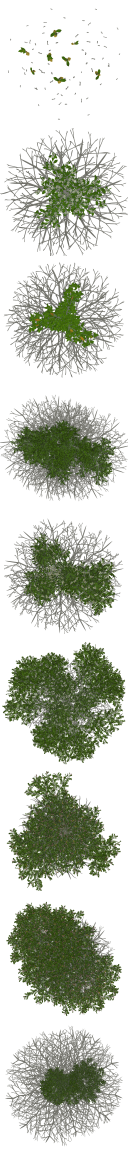
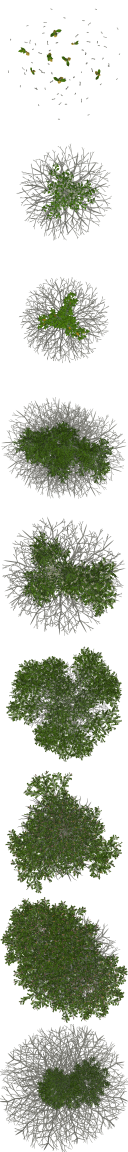
remade textures of every tree

diff --git a/objects.py b/objects.py
@@ -8,7 +8,7 @@ textures = [
             "glass",
             #objects
             "grass", "treelog", "treestump", "treetrunk", "basil", "mushrooms",
-            "fern", "bush", "tarragon", "silkyoak", "bottlebrushtree", "sheoaktree", "cactus", "greencactus",
+            "fern", "bush", "tarragon", "silkyoak", "weepingbottlebrush", "norfolkislandpine", "cactus", "greencactus",
             "flytrap", "birchtreelog", "birchtreetrunk", "birchtreestump", "lillypad", "talldrygrass", "candle", "greymangrove", "silverwattle",
             ]
 
@@ -36,7 +36,7 @@ biome_map = ((3, 2, 2, 1, 1, 0),# cold
 
 OBJ = {
              "grass": {
-                 "substrate": ("dirt", "weeds", "roughseedgrass", "stones", "lushundergrowth", "silkyoakdirt", "bottlebrushdirt", "sheoakdirt", "lawn", "sand", "freshwater"),
+                 "substrate": ("dirt", "weeds", "roughseedgrass", "stones", "lushundergrowth", "silkyoakdirt", "bottlebrushdirt", "sheoakdirt", "wattledirt", "lawn", "sand", "freshwater"),
                  "moisture": (5, 100),
                  "rootsize": "shallow",
                  "nutreants": (10, 70),
@@ -62,7 +62,7 @@ OBJ = {
                  "height": 0.05
              },
              "mushrooms": {
-                 "substrate": ("dirt", "weeds", "lushundergrowth", "silkyoakdirt", "bottlebrushdirt", "sheoakdirt", "lawn"),
+                 "substrate": ("dirt", "weeds", "lushundergrowth", "silkyoakdirt", "bottlebrushdirt", "sheoakdirt", "wattledirt", "lawn"),
                  "moisture": (40, 100),
                  "rootsize": "shallow",
                  "nutreants": (0, 50),
@@ -128,7 +128,7 @@ OBJ = {
                  "size": 8,
                  "height": lambda x,y: 0.4+sin(x+y*y)/20
              },
-             "bottlebrushtree": {
+             "weepingbottlebrush": {
                  "substrate": ("bottlebrushdirt", ),
                  "moisture": (20, 75),
                  "rootsize": "deep",
@@ -142,7 +142,7 @@ OBJ = {
                  "size": 8,
                  "height": lambda x,y: 0.4+sin(x+y*y)/20
              },
-             "sheoaktree": {
+             "norfolkislandpine": {
                  "substrate": ("sheoakdirt", ),
                  "moisture": (20, 75),
                  "rootsize": "deep",
@@ -152,9 +152,9 @@ OBJ = {
                  "lightlevel": "any",
                  "creates": "sheoakdirt",
                  "flags": {"plant", "native", "flip", "solid"},
-                 "model": "tree",
+                 "model": "doubletree",
                  "size": 8,
-                 "height": lambda x,y: 0.4+sin(x+y*y)/20
+                 "height": lambda x,y: 0.5+sin(x+y*y)/20
              },
              "greymangrove": {
                  "substrate": ( "mangrovedirt", "dirt", "sand", "freshwater", "water", "roughseedgrass" ),
@@ -170,7 +170,7 @@ OBJ = {
                  "height": lambda x,y: 0.1+sin(x+y*y)/20
              },
              "silverwattle": {
-                 "substrate": ( "wattledirt", ),
+                 "substrate": ( "wattledirt", "roughseedgrass" ),
                  "moisture": (20, 80),
                  "rootsize": "deep",
                  "temperiture": (15, 80),
@@ -185,7 +185,6 @@ OBJ = {
                  "substrate": ("roughseedgrass", "sand"),
                  "moisture": (20, 60),
                  "rootsize": "moderate",
-                 "nutreants": (5, 70),
                  "temperiture": (20, 50),
                  "salinity": (0, 100),
                  "lightlevel": "high",

diff --git a/Nitrogen.py b/Nitrogen.py
@@ -228,8 +228,8 @@ def render_text(text):
 render_text(text)
 
 #hotbar = [["treestump", 1, 1], ["treestump", 1, 1], ["birchtreestump", 1, 1], ["treestump", 1, 1], ["wall", 1, 1000], ["tiles", 1, 1000], ["dirt", 0, 1], ["lushundergrowth", 0, 1], ["bottlebrushdirt", 0, 1]]
-#hotbar[0] = ["glass", 1, 9999]
-hotbar[1] = ["candle", 1, 999]
+#hotbar[8] = ["debug", 0, 0]
+#hotbar[1] = ["candle", 1, 999]
 #hotbar[1] = ["wall", 1, 999]
 print("hotbar:", hotbar)
 def save_game():
@@ -250,7 +250,7 @@ def construct_overlay():
         if hotbar[i][0] != None and hotbar[i][2] > 0:
             overlay.blit(textures_img[texd[hotbar[i][0]][0]], (0, 128 * i - 128 * 4.5 + overlay.get_size()[1] / 2))
     slot = hotbar[int(selected_item_slot)]
-    if slot[0] == "candle" and slot[2] > 0:
+    if slot[0] == "debug":
         for x,y in list_tiles_on_screen(8):
             tile_coords = [ceil(screen_coords[0] / tile_size) + x - 1,
                            ceil(screen_coords[1] / tile_size) + y - 1]
@@ -323,7 +323,10 @@ def decorate(x, y, mat):
             if "plant" in OBJ[dec]["flags"] and "native" in OBJ[dec]["flags"]:
                 temp, moisture, altitude = get_climate(x, y)
                 salinity = max(0, 100/(altitude/30)-moisture)
-                if mat not in OBJ[dec]["substrate"] or temp < OBJ[dec]["temperiture"][0] or temp > OBJ[dec]["temperiture"][1] or moisture < OBJ[dec]["moisture"][0] or moisture > OBJ[dec]["moisture"][1] or salinity > OBJ[dec]["salinity"][1] or salinity < OBJ[dec]["salinity"][0]:
+                if mat not in OBJ[dec]["substrate"] or \
+                        temp < OBJ[dec]["temperiture"][0] or temp > OBJ[dec]["temperiture"][1] or \
+                        moisture < OBJ[dec]["moisture"][0] or moisture > OBJ[dec]["moisture"][1] or \
+                        salinity > OBJ[dec]["salinity"][1] or salinity < OBJ[dec]["salinity"][0]:
                     dec = None
             else:
                 dec = None
@@ -647,13 +650,14 @@ def main():
         if decor in OBJ.keys():
             model = OBJ[decor]["model"]
             size = OBJ[decor]["size"]
-            if model == "tree":
+            if model == "tree" or model == "doubletree":
                 draw_object(get_tex("treelog", index), tile_coords[0], tile_coords[1], 0.01, 1, 1)
                 tree_height = OBJ[decor]["height"](tile_coords[0], tile_coords[1])
                 draw_object(get_tex("treetrunk", 0), tile_coords[0], tile_coords[1], tree_height, 0, -1)
                 draw_object(get_tex("treetrunk", 0), tile_coords[0], tile_coords[1], tree_height, 1, 0)
                 draw_object(get_tex("treestump", 0), tile_coords[0], tile_coords[1], tree_height, 1, 1)
-                #draw_shrub_foreground(get_tex(decor, tile_coords[0]+10*tile_coords[1]), tile_coords[0], tile_coords[1], tree_height/1.5, size*((1+tile_coords[0])%2*2-1), size*((1+tile_coords[1])%2*2-1))
+                if model == "doubletree":
+                    draw_shrub_foreground(get_tex(decor, tile_coords[0]+10*tile_coords[1]), tile_coords[0], tile_coords[1], tree_height/2, size*((1+tile_coords[0])%2*2-1), size*((1+tile_coords[1])%2*2-1))
                 draw_shrub_foreground(get_tex(decor, tile_coords[0]+10*tile_coords[1]), tile_coords[0], tile_coords[1], tree_height, size*(tile_coords[0]%2*2-1), size*(tile_coords[1]%2*2-1))
             else:
                 height = OBJ[decor]["height"]
